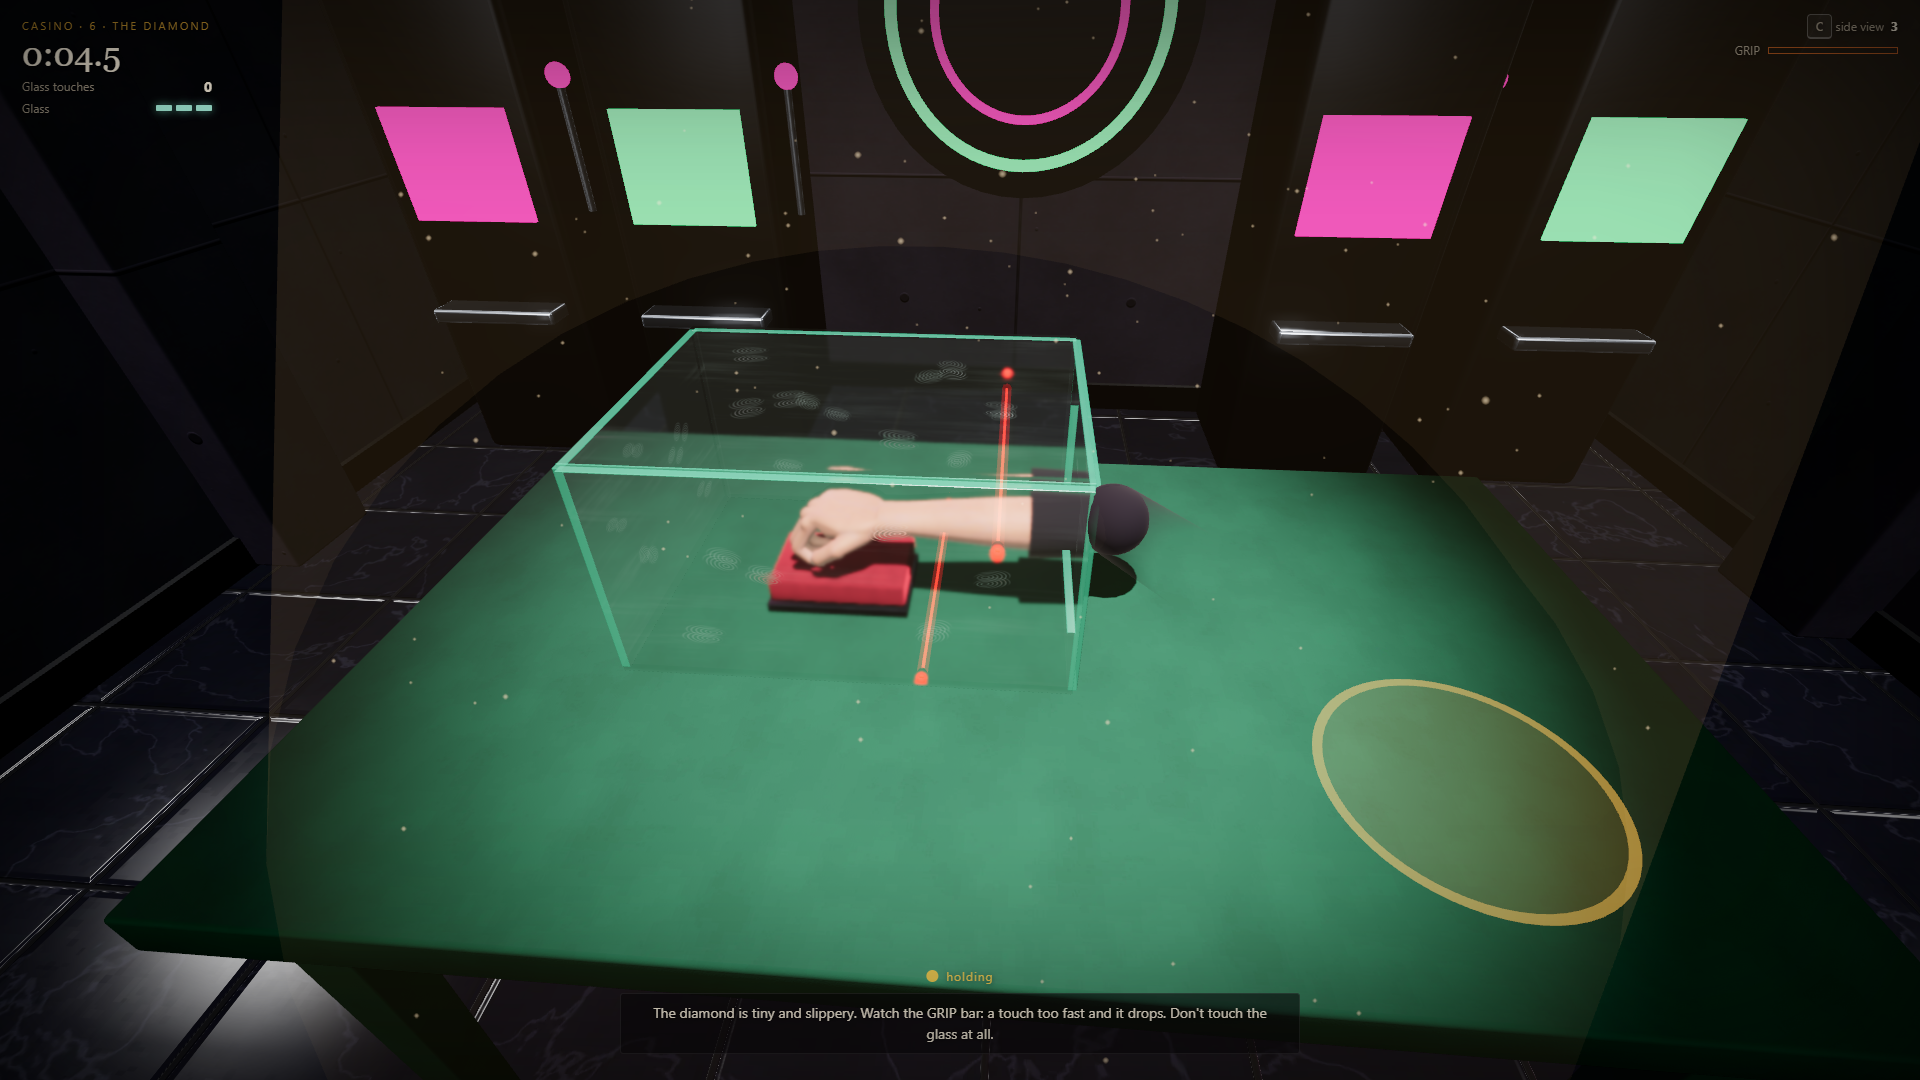
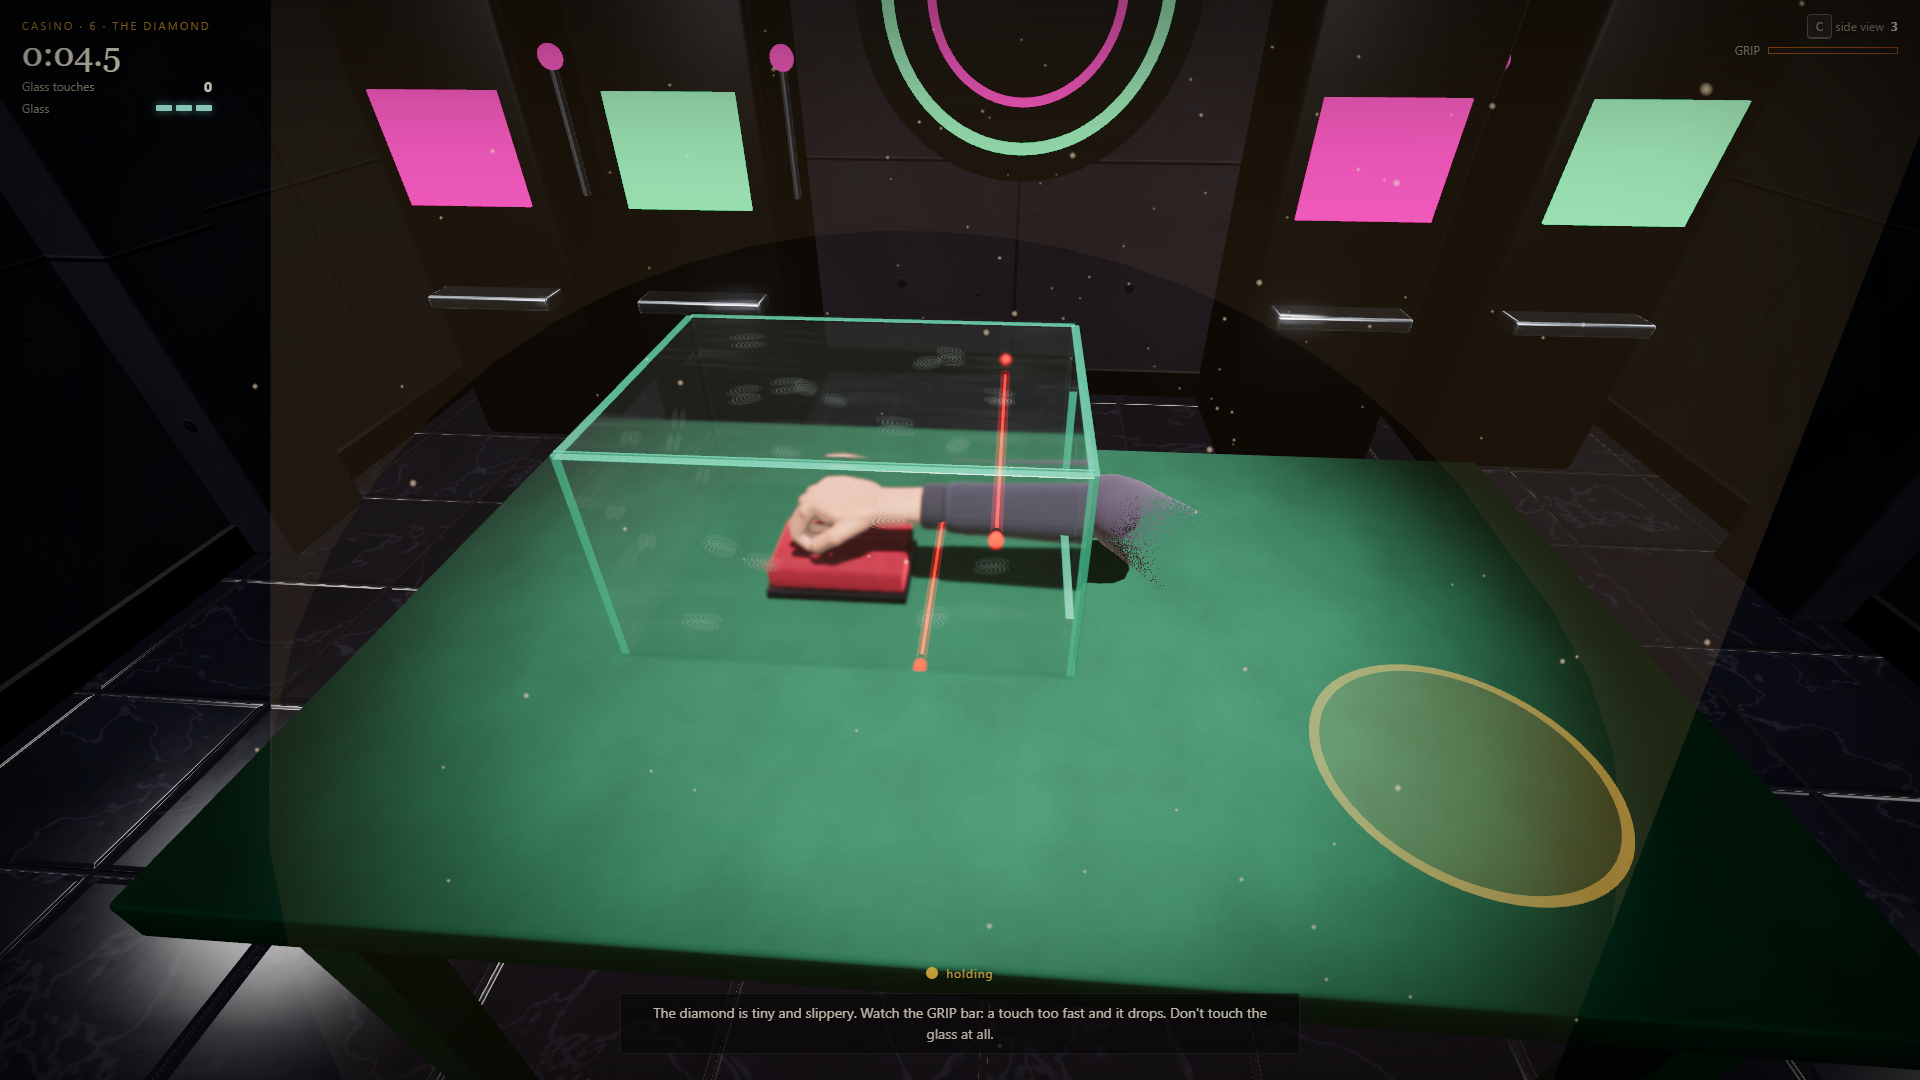
Скриншоты для Steam: пересняты после правки HUD и нового рукава, добавлен русский набор
docs/steam/screenshots (EN) и docs/steam/screenshots_ru (RU): по 12 кадров 1920x1080 на
высоком качестве. shots.mjs: ключ --lang снимает весь список на заданном языке.

diff --git a/docs/steam_page.md b/docs/steam_page.md
@@ -265,16 +265,23 @@ Recommended:
 
 ## 7. Скриншоты
 
-1920×1080, «высокое» качество, английский интерфейс. Лежат в `docs/steam/screenshots/`,
-пересъёмка: `node tools/test/shots.mjs tools/test/lists/steam_screenshots.json docs/steam/screenshots --size 1920x1080 --quality high`.
+1920×1080, «высокое» качество. Два одинаковых набора по 12 кадров:
+
+- `docs/steam/screenshots/` — английский интерфейс (основной набор для страницы);
+- `docs/steam/screenshots_ru/` — русский интерфейс (в Steamworks загружается как локализованные скриншоты для русского языка).
+
+Пересняты 2026-11-14 после исправления HUD и нового рукава. Пересъёмка:
+
+- `node tools/test/shots.mjs tools/test/lists/steam_screenshots.json docs/steam/screenshots --size 1920x1080 --quality high`
+- `node tools/test/shots.mjs tools/test/lists/steam_screenshots.json docs/steam/screenshots_ru --size 1920x1080 --quality high --lang ru`
 
 | Файл | Что на кадре | Зачем |
 | --- | --- | --- |
 | `01_monkey_trap.png` | Ломбард: рука держит слиток внутри коробки с узким отверстием | главный крючок игры |
 | `02_museum_vase.png` | Музей: рука опускается к вазе | вторая обстановка, хрупкая добыча |
-| `03_museum_lasers.png` | Музей: ваза под тремя лазерами, белая перчатка | ловушки |
+| `03_museum_lasers.png` | Музей: рука в белой перчатке опускается к вазе между лазерами | ловушки |
 | `04_bank_shutter.png` | Банк: слиток выносят из-под закрывающейся заслонки | напряжение, таймер |
-| `05_bank_scales.png` | Банк: подмена слитка на груз на весах | головоломка «в два хода» |
+| `05_bank_scales.png` | Банк: подмена слитка на груз на весах, красная перчатка | головоломка «в два хода» |
 | `06_casino_diamond.png` | Казино: бриллиант между лазерами, кольцо на пальце | неон, косметика |
 | `07_casino_dice.png` | Казино: кубики на карусели | движение |
 | `08_casino_blackout.png` | Казино: темнота, светятся рёбра стекла и рука | атмосфера |
